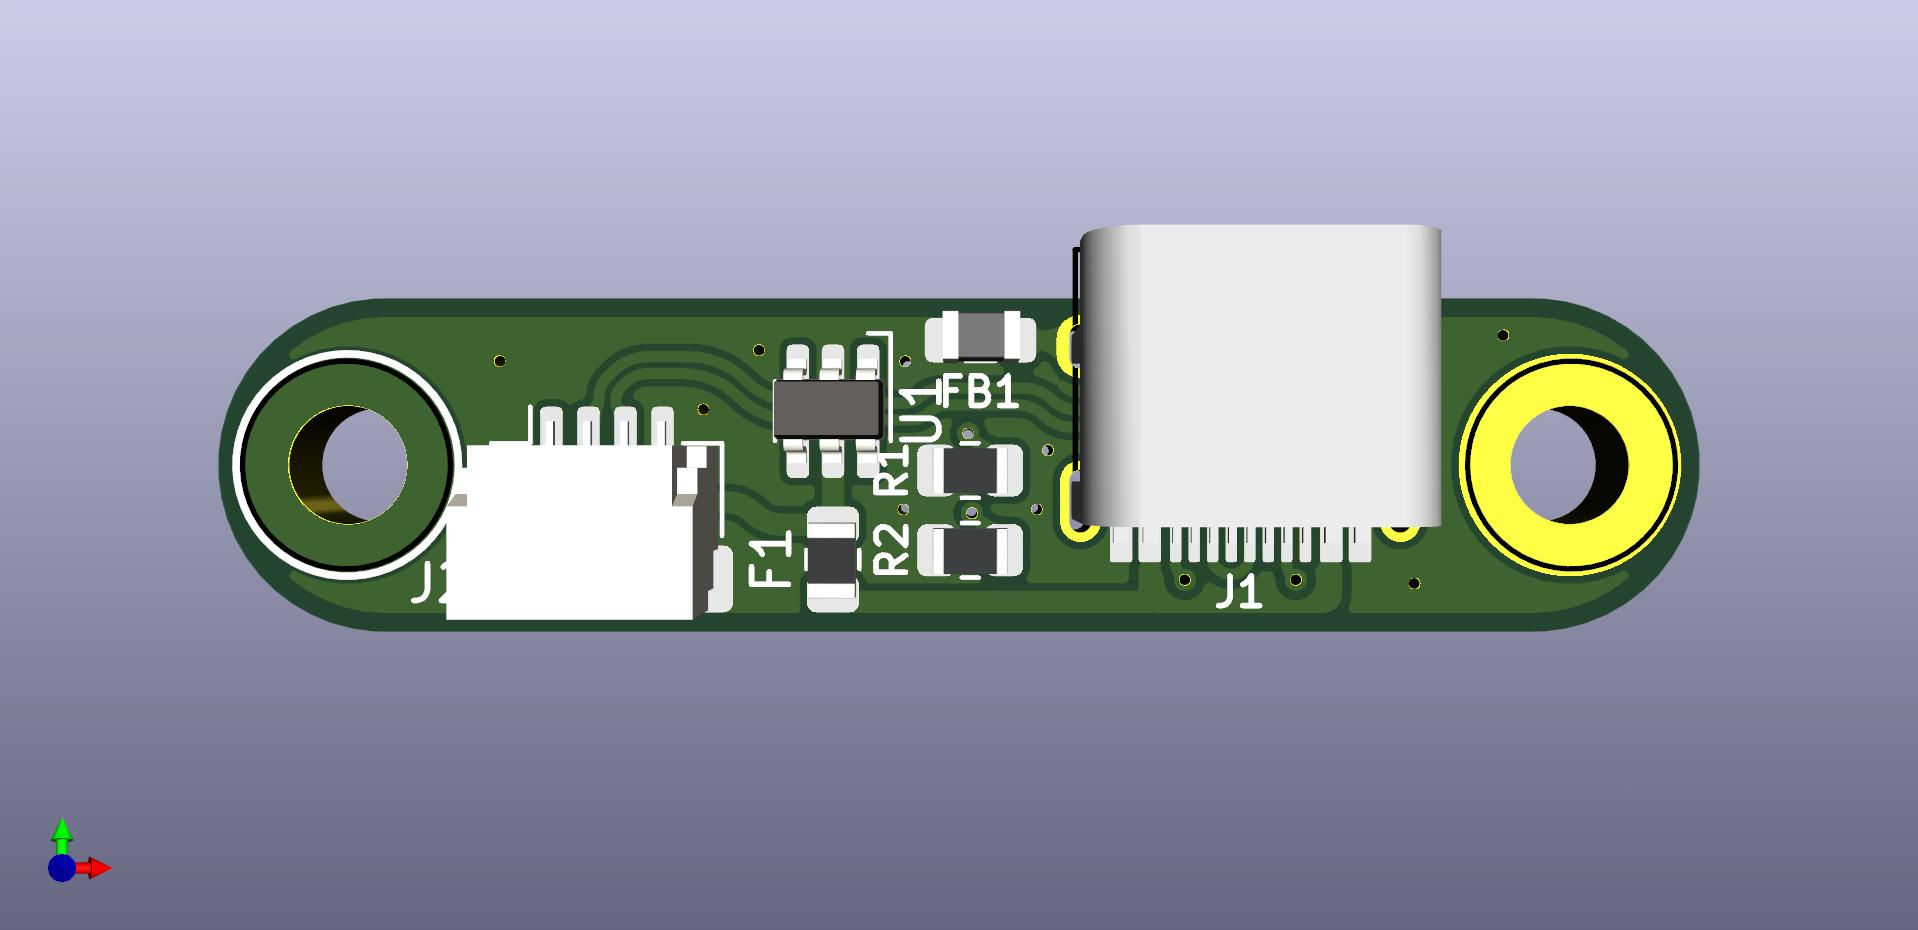
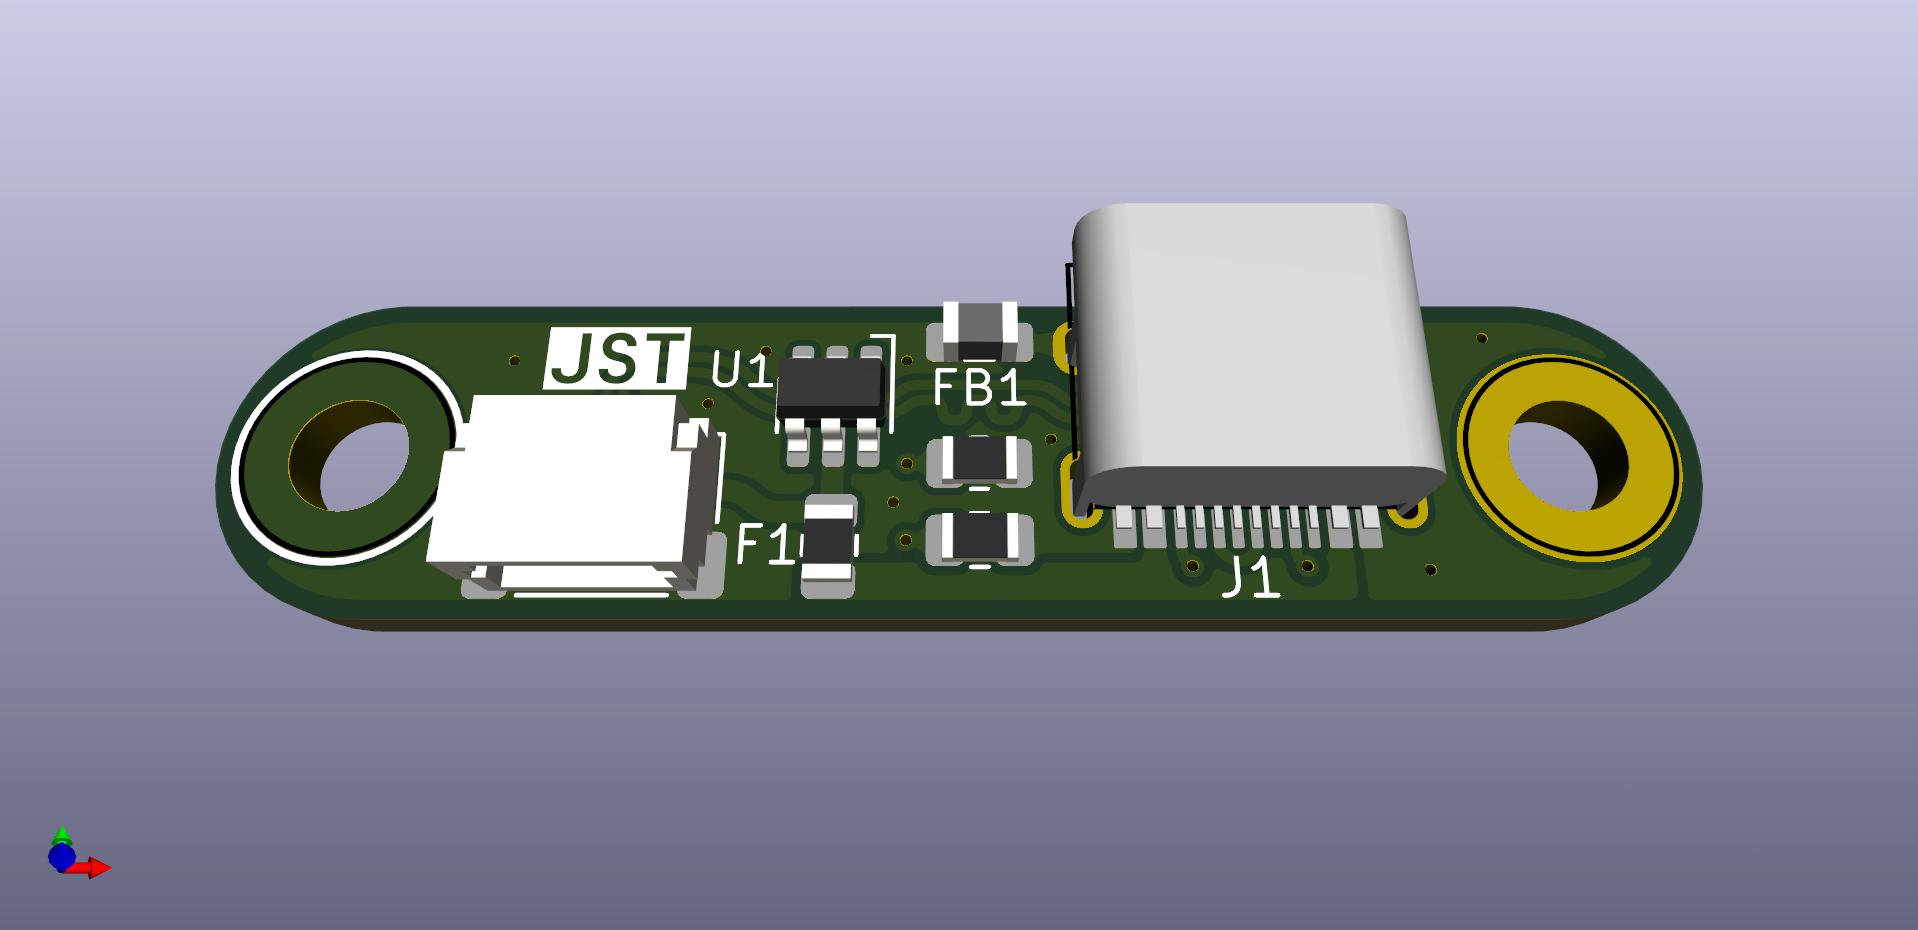
updated renders
updated the renders of the board to those that are the newest version

Changed region(s): [[0.0923, 0.2183, 0.8921, 0.686], [0.0, 0.8731, 0.0615, 0.9667]]

diff --git a/README.md b/README.md
@@ -4,8 +4,8 @@
 ## Changes 
 
 - switched to the reliable JST connector.
-- replaced esd chip to the PRTR5V.
-- changed the fotprint to 0805 and SOD123.
+- replaced esd chip to the SRV05-4.
+- changed the fotprint to 0805.
 - switched to a 2 layer pcb.
 
 
